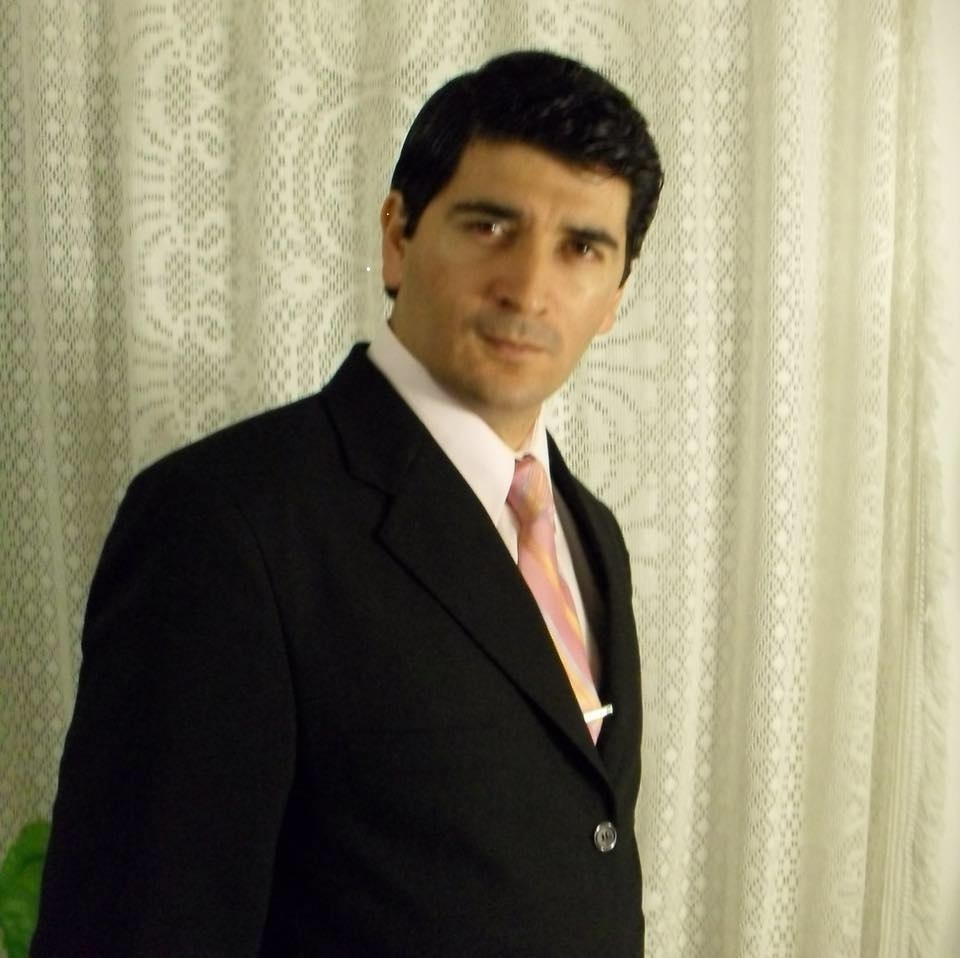
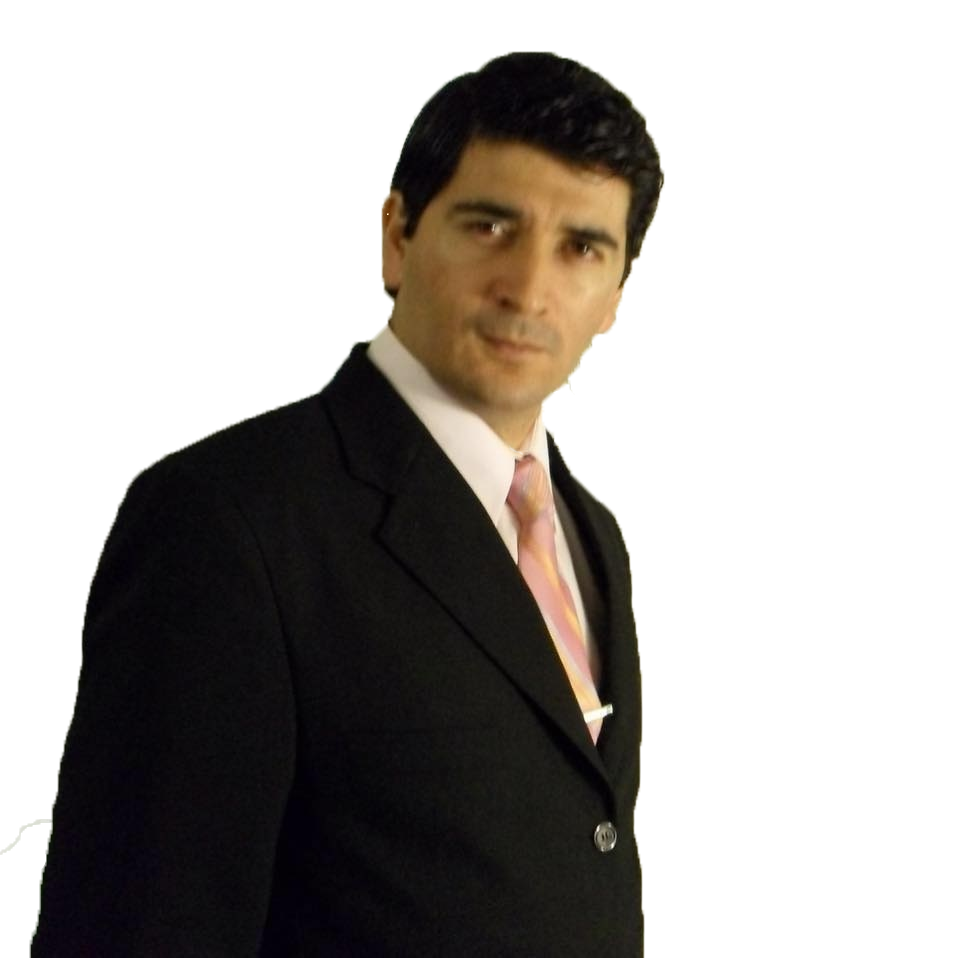
fouth commit working goog

diff --git a/src/components/hero.jsx b/src/components/hero.jsx
@@ -1,0 +1,74 @@
+import Person from "../assets/person.png";
+
+const Hero = () => {
+  const socialMedia = [
+    {
+      initial: "FB",
+      link: "https://web.facebook.com/dario.echazu.7",
+    },
+    {
+      initial: "LI",
+      link: "https://www.linkedin.com/in/dario-echazu-508466232/",
+    },
+    {
+      initial: "IG",
+      link: "https://www.instagram.com/dario.echazu/",
+    },
+  ];
+
+  return (
+    <div className="relative">
+      <div className="inset-x-0 mt-8 flex items-center justify-center font-roboto-slab text-[50px] font-black uppercase tracking-tighter text-white md:absolute md:top-[15%] md:mt-[unset] md:text-[145px] lg:top-[10%] lg:text-[180px] xl:top-[15%] xl:text-[250px]">
+        <span>Dario Echazu</span>
+      </div>
+      <div className="relative mx-auto flex h-full flex-col-reverse justify-center md:mt-8 md:max-w-none md:flex-row md:gap-x-6 xl:-mt-2">
+        <div className="flex flex-none">
+          <img
+            src={Person}
+            alt="Person"
+            className="-mt-14 w-[250px] object-contain sm:w-[345px] md:mt-auto md:w-[400px] lg:w-[450px] xl:w-[560px]"
+          />
+        </div>
+        <div className="relative mx-10 self-end font-poppins sm:mx-14 md:mx-0 md:pr-8 lg:pr-0 lg:pb-16">
+          <div className="relative mb-4 ml-auto w-max text-2xl font-extrabold uppercase text-accent md:text-[32px] lg:mb-6 lg:text-[50px]">
+            <div className="absolute top-full right-0 h-[2px] w-3/4 bg-accent md:top-[120%] lg:top-[150%]" />
+            <span>Full Stack</span>
+          </div>
+          <div className="mb-4 text-justify text-[13px] font-medium text-light lg:max-w-[479px] lg:text-[15px]">
+            <span>
+            I am passionate about continuously improving and growing
+            while utilizing my productive knowledge to make a positive impact.
+            I am open to exploring various roles within the industry,
+            but ultimately I am drawn towards positions that challenge me
+            to bring my skills to the next level and contribute
+            to the success of the team.
+
+            </span>
+          </div>
+          <div className="text-right text-[13px] font-semibold text-accent md:mb-20 md:text-left lg:text-base">
+            <div>
+              <span>P: +54 9 387 453 33 37</span>
+            </div>
+            <div>
+              <span>E: darioechazu@hotmail.com</span>
+            </div>
+          </div>
+          <div className="absolute top-[170%] right-0 flex flex-col items-center justify-end gap-y-[13px] gap-x-[30px] text-[15px] font-medium uppercase text-secondary md:relative md:flex-row">
+            {socialMedia.map((list, i) => (
+              <a
+                key={i}
+                href={list.link}
+                target="_blank"
+                className="transition-all hover:text-accent"
+              >
+                {list.initial}
+              </a>
+            ))}
+          </div>
+        </div>
+      </div>
+    </div>
+  );
+};
+
+export default Hero;

diff --git a/src/components/navbar.jsx b/src/components/navbar.jsx
@@ -1,6 +1,52 @@
+import { faPhone } from '@fortawesome/free-solid-svg-icons';
+import { FontAwesomeIcon } from '@fortawesome/react-fontawesome';
+import logo from '../assets/logo.png'
+
 const Navbar = () => {
+    const navbarMenu = [
+        {
+            name: 'Home',
+            link: "#"
+        },        {
+            name: 'About',
+            link: "#about"
+        },        {
+            name: 'Services',
+            link: "#services"
+        },        {
+            name: 'Testomonials',
+            link: "#testimonials"
+        },
+    ]
     return(
-        <div>Navbar</div>
+        <div className='flex items-center justify-between px-10 pt-[45px]'>
+            <div className='flex gap-x-[100px]'>
+                <a href='/'>
+                    <img
+                        src={logo}
+                        alt='logo'
+                        className= "h-[40px] w-[40px] rounded-md lg:rounded-lg xl:h-[60px] xl:w-[60px" 
+                        />
+                </a>
+                <div className='hidden items-center gap-x-[50px] font-roboto font-semibold text-white/80 lg:flex lg:text-base xl:text-xl'>
+                    {navbarMenu.map((menu, i) => (
+                        <a href={menu.link} key={i} className='hover:text-white'>
+                            {menu.name}
+                        </a>
+                    ))}
+
+                </div>
+            </div>
+            <div className="hidden gap-x-{30px] text-white lg:flex">
+                <div className='flex h-[40px] w-[40px] cursor-pointer items-center justify-center rounded-full bg-dark opacity-80 hover:opacity-100'>
+                        <FontAwesomeIcon icon={faPhone} className="-rotate-90" />
+                </div>
+                <a href='/#contact-me' className='rounded-lg bg-accent/90 px-4 py-2 font-poppins font-bold hover:bg-accent lg:text-base xl:text-lg'>
+                        Contact Me
+                </a>
+
+            </div>
+        </div>
     )
 }
 

diff --git a/src/App.jsx b/src/App.jsx
@@ -1,3 +1,4 @@
+import Hero from "./components/hero";
 import Navbar from "./components/navbar";
 
 const App = () => {
@@ -6,10 +7,11 @@ const App = () => {
       <div className="bg-hero bg-contain bg-center bg-no-repeat md:bg-cover">
         <div className="mx-auto max-w-7xl">
           <Navbar/>
+          <Hero/>
         </div>
       </div>
     </div>
-  )
-}
+  );
+};
 
 export default App;
